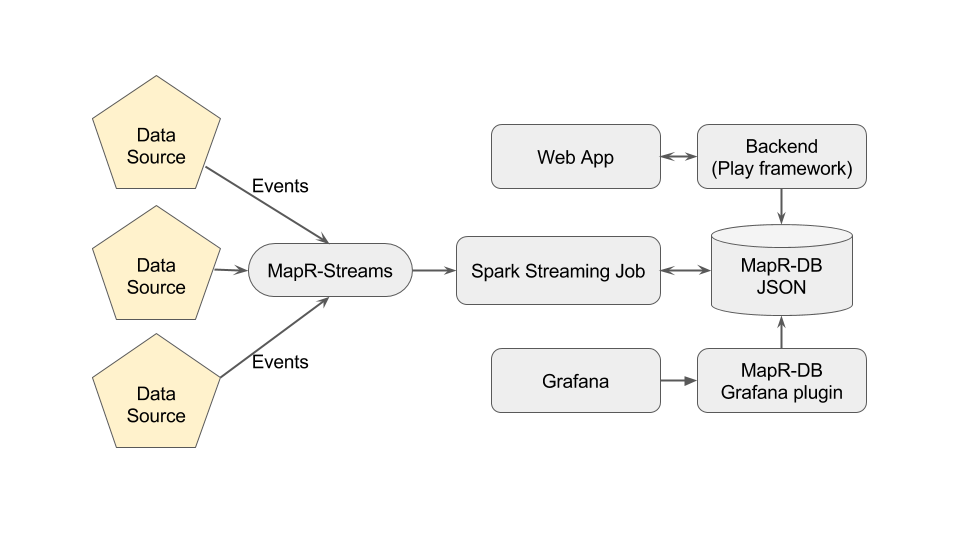
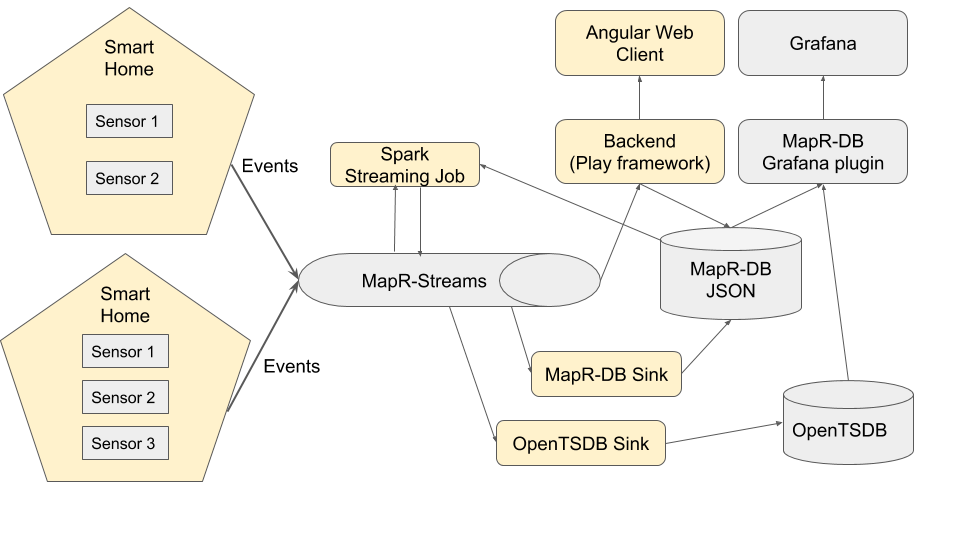
issue #1: System design image changed

diff --git a/docs/tutorial/002-motivation.md b/docs/tutorial/002-motivation.md
@@ -20,13 +20,13 @@ produced by smart homes.
 The system must:
 * collect metrics
 
-Various metrics from multiples devices per each home must be collected. There must be the ability to add new home/device easily. 
-Possible metrics: temperature, electricity consumption.
+Various metrics from multiples devices per each home must be collected. There must be the ability to add new home/device 
+easily. Possible metrics: temperature, electricity consumption.
 
-* convert metrics using user-defined conversions
+* define metrics conditions
 
-There must be the ability for the users to define metrics conversions. Possible conversions: convert Fahrenheit to Celsius, 
-convert electricity/water/gas consumption to house maintenance cost.
+There must be the ability for the users to define metrics conditions. In the case when some of the conditions are 
+violated, a notification will be sent.
 
 * persist metrics
 
@@ -34,8 +34,8 @@ Metrics must be persisted in reliable storage.
 
 * provide UI for visualizing metrics and metrics' sources
 
-There must be a UI for system monitoring, which must provide information about active metrics sources and available 
-metrics. UI also can be used for defining metrics conversions, system configuration.
+There must be a UI for system monitoring, which must provide information about active metrics sources and notifications 
+of violated conditions. UI also can be used for defining metrics conditions. 
 
 ## What's next?
 

diff --git a/docs/tutorial/003-system-design.md b/docs/tutorial/003-system-design.md
@@ -13,12 +13,41 @@ This document describes the architecture of MapR Smart Home Event Processing Sys
 ## Design
 
 MapR Smart Home is an event processing system which consists of the following components:
-* Event producers
-* Spark Streaming Job
+* Event generator
+
+A single instance of event generator acts as a separate smart home with one or multiple sensors. It publishes metrics 
+events to MapR Stream.
+
+* Event processor
+
+Event processor is Spark Streaming Job, which receives events from MapR Stream and checks if they violate conditions, 
+stored at MapR-DB.
+
 * Web application backend
+
+Backend part of webapp, receives notifications from MapR Stream and publishes them to UI via WebSocket. Provides REST 
+API for managing smart homes, sensors and conditions.
+
 * Web application UI
 
+Angular app, which displays registered smart homes, their sensors and corresponding conditions. Also, receives and 
+displays notifications of violated conditions.
+
+* Events MapR-DB JSON Sink
+
+Receives events and stores them at MapR-DB JSON Table.
+
+* Events OpenTSDB Sink
+
+Receives events and stores them at OpenTSDB.
+
+
 ![](../images/smart-home-design.png?raw=true "System design")
+
+## Grafana
+
+As you can see in the image above, Grafana along with MapR-DB JSON Plugin can be used to visualize events, stored at 
+MapR-DB JSON Table. Also, its possible to use OpenTSDB Datasource in case when OpenTSDB Sink used.
 
 ## What's next?
 
